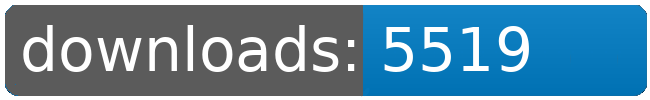
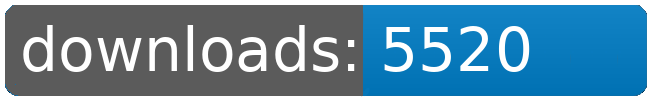
dl log written

Changed region(s): [[0.7077, 0.24, 0.8308, 0.72]]

diff --git a/README.md b/README.md
@@ -21,8 +21,8 @@
 		<td>5419</td>
 		<td>5451</td>
 		<td>5493</td>
-		<td>5519</td>
-		<td>+ 26</td>
+		<td>5520</td>
+		<td>+ 27</td>
 	</tr>
 	<tr>
 		<td>Factory.Outlets</td>
@@ -109,8 +109,8 @@
 		<td></td>
 		<td></td>
 		<td></td>
-		<td>43780</td>
-		<td>134</td>
+		<td>43781</td>
+		<td>135</td>
 	</tr>
 </table>
 </sub></sup>
@@ -157,8 +157,8 @@
 		<td>5419</td>
 		<td>5451</td>
 		<td>5493</td>
-		<td>5519</td>
-		<td>+ 26</td>
+		<td>5520</td>
+		<td>+ 27</td>
 	</tr>
 	<tr>
 		<td>Korunak.Defense.Drones</td>
@@ -223,8 +223,8 @@
 		<td></td>
 		<td></td>
 		<td></td>
-		<td>43780</td>
-		<td>134</td>
+		<td>43781</td>
+		<td>135</td>
 	</tr>
 </table>
 </sub></sup>
